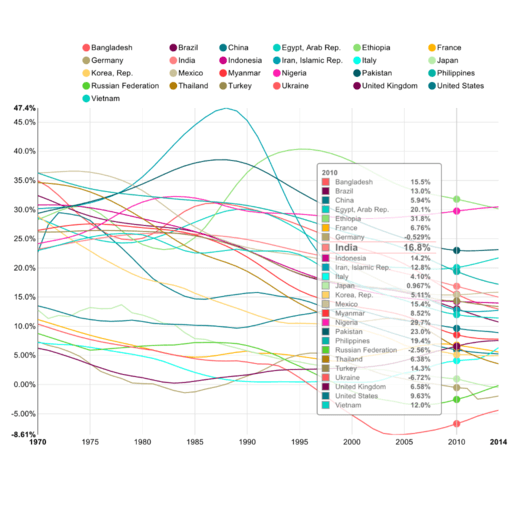
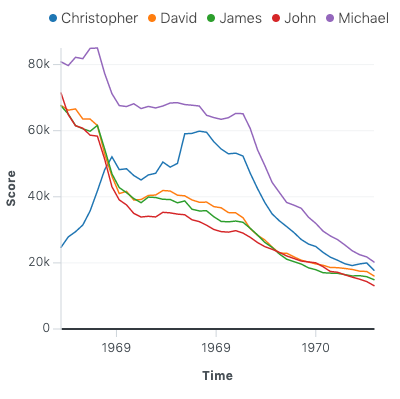
feat: update line chart thumbnail and scale extraction (#61)
* feat: update line chart thumbnail

* fix: lint

diff --git a/superset-frontend/temporary_superset_ui/superset-ui/plugins/superset-ui-plugins/packages/superset-ui-preset-chart-xy/src/encodeable/parsers/extractScale.ts b/superset-frontend/temporary_superset_ui/superset-ui/plugins/superset-ui-plugins/packages/superset-ui-preset-chart-xy/src/encodeable/parsers/extractScale.ts
@@ -77,9 +77,13 @@ export function deriveScaleTypeFromDataTypeAndChannelType(
     return undefined;
   } else if (dataType === 'nominal' || dataType === 'ordinal') {
     switch (channelType) {
+      // For positional (x and y) ordinal and ordinal fields,
+      // "point" is the default scale type for all marks
+      // except bar and rect marks, which use "band" scales.
+      // https://vega.github.io/vega-lite/docs/scale.html
       case 'XBand':
       case 'YBand':
-        return ScaleType.POINT;
+        return ScaleType.BAND;
       case 'X':
       case 'Y':
       case 'Numeric':

diff --git a/superset-frontend/temporary_superset_ui/superset-ui/plugins/superset-ui-plugins/packages/superset-ui-preset-chart-xy/src/Line/Encoder.ts b/superset-frontend/temporary_superset_ui/superset-ui/plugins/superset-ui-plugins/packages/superset-ui-preset-chart-xy/src/Line/Encoder.ts
@@ -13,13 +13,13 @@ import { EncodingFromChannelsAndOutputs } from '../encodeable/types/Channel';
 // See more details from
 // https://github.com/Microsoft/TypeScript/issues/20195
 // https://github.com/Microsoft/TypeScript/pull/29510
-const channelTypes = new class Channels {
+const channelTypes = new (class Channels {
   readonly x = 'X';
   readonly y = 'Y';
   readonly color = 'Color';
   readonly fill = 'Category';
   readonly strokeDasharray = 'Category';
-}();
+})();
 
 export type ChannelTypes = typeof channelTypes;
 
